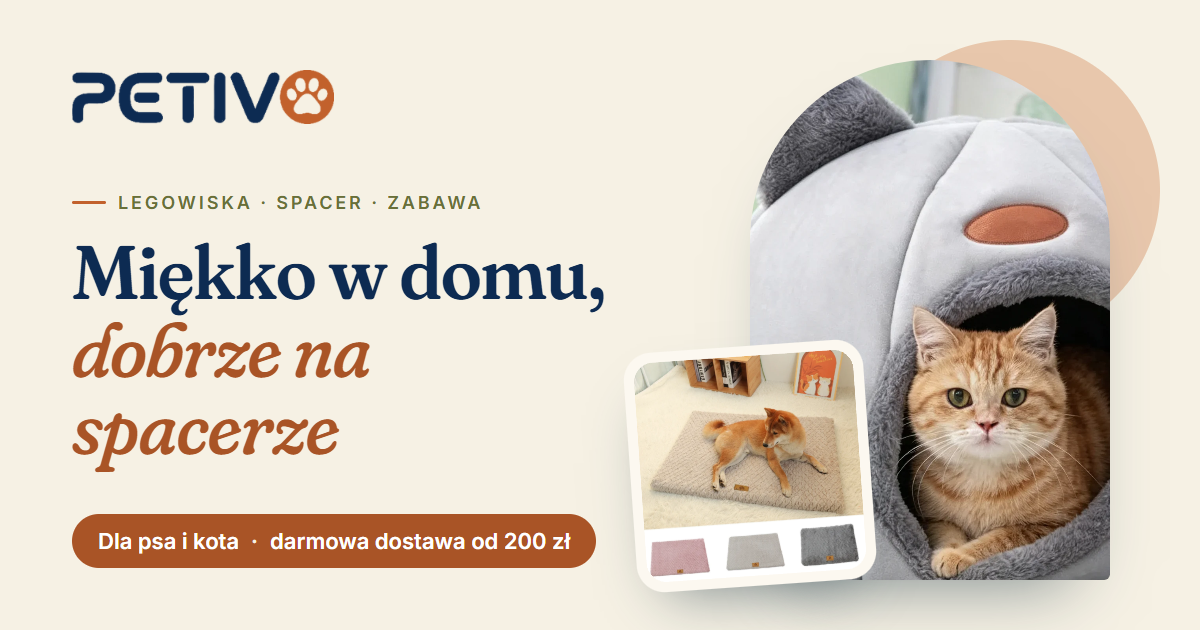
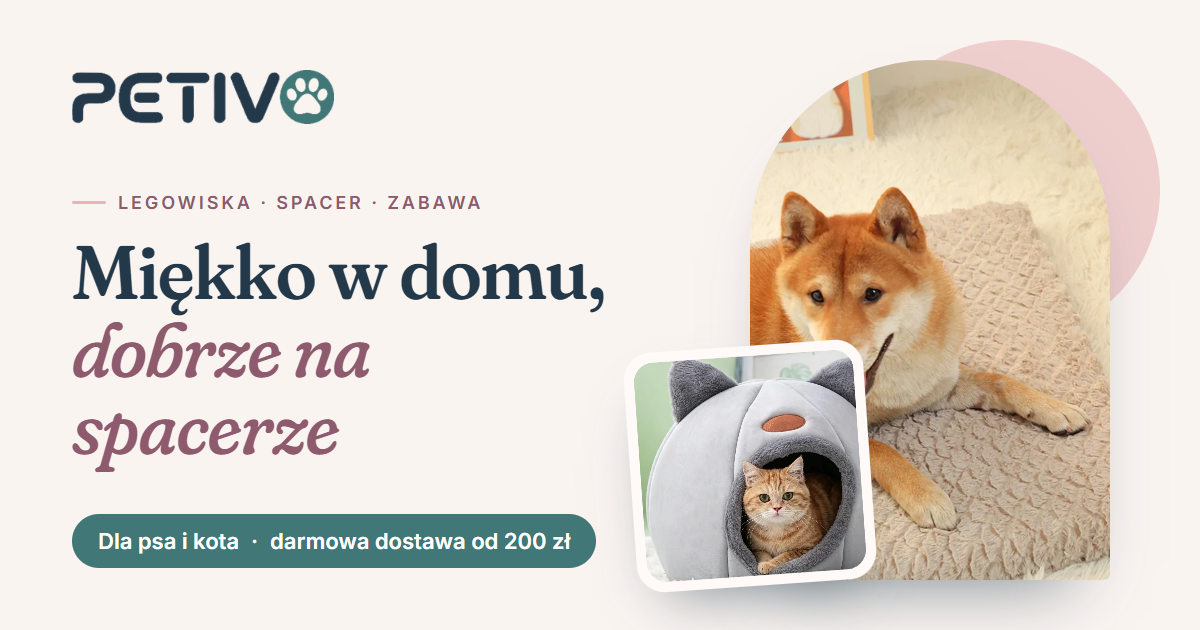
Palette D: powder pink and sea teal
Background #FAF4F1, ink #23394A, CTA sea teal #417777 (white text 5.1:1,
darker #3A6D6D for text and buttons), mauve #8E5A6E for accent words and
labels (5.0:1), powder pink #E8B4B8 for borders, tiles and decoration,
badge #6E3A50. Logo files renamed (-v2) so image caches pick up the new
colours; favicon and OG image redone.

diff --git a/src/components/landing.tsx b/src/components/landing.tsx
@@ -88,7 +88,7 @@ function plural(n: number, one: string, few: string, many: string) {
 function SceneTag({ product, label, className }: { product: Product; label: string; className: string }) {
   return (
     <Link href={`/produkt/${product.handle}`}
-      className={`group absolute z-20 inline-flex items-center gap-2.5 rounded-full bg-card/95 backdrop-blur border border-neutral-warm/70 pl-3.5 pr-1.5 py-1.5 shadow-[0_12px_30px_-16px_rgba(13,43,82,0.6)] hover:border-accent-primary transition-colors ${className}`}>
+      className={`group absolute z-20 inline-flex items-center gap-2.5 rounded-full bg-card/95 backdrop-blur border border-neutral-warm/70 pl-3.5 pr-1.5 py-1.5 shadow-[0_12px_30px_-16px_rgba(35,57,74,0.6)] hover:border-accent-primary transition-colors ${className}`}>
       <span className="leading-tight">
         <span className="block text-[0.7rem] font-semibold uppercase tracking-[0.12em] text-accent-secondary-strong">{label}</span>
         <span className="block text-sm font-semibold text-ink">od {formatPrice(product.minPrice)}</span>
@@ -176,9 +176,9 @@ export function Landing({ products }: { products: Product[] }) {
               className="relative mx-auto w-full max-w-[34rem] lg:max-w-none aspect-[1/1] sm:aspect-[10/9]">
               {/* backdrop arch, sun and a small sage moon */}
               <div aria-hidden="true" className="absolute inset-x-[3%] top-[2%] bottom-[9%] rounded-t-[999px] rounded-b-[2.5rem]"
-                style={{ background: "linear-gradient(180deg, #F8EBDD 0%, rgba(217,158,115,0.5) 100%)" }} />
-              <div aria-hidden="true" className="absolute right-[12%] top-[10%] w-[19%] aspect-square rounded-full bg-accent-primary/90" />
-              <div aria-hidden="true" className="absolute left-[20%] top-[14%] w-[6%] aspect-square rounded-full bg-accent-secondary/70" />
+                style={{ background: "linear-gradient(180deg, #FCF1F0 0%, rgba(232,180,184,0.55) 100%)" }} />
+              <div aria-hidden="true" className="absolute right-[12%] top-[10%] w-[19%] aspect-square rounded-full bg-neutral-warm" />
+              <div aria-hidden="true" className="absolute left-[20%] top-[14%] w-[6%] aspect-square rounded-full bg-accent-primary/70" />
               {/* contact shadows */}
               <div aria-hidden="true" className="absolute left-[9%] bottom-[11%] w-[42%] h-[6%] rounded-[50%] bg-ink/30 blur-xl" />
               <div aria-hidden="true" className="absolute right-[5%] bottom-[10%] w-[44%] h-[6%] rounded-[50%] bg-ink/25 blur-xl" />
@@ -186,12 +186,12 @@ export function Landing({ products }: { products: Product[] }) {
               <Link href={`/produkt/${scene.cat.handle}`} aria-label={scene.cat.name}
                 className="absolute left-[6%] bottom-[12%] w-[49%] aspect-[1.05] transition-transform duration-500 hover:-translate-y-1">
                 <Image src={scene.cat.packshot!} alt={scene.cat.name} fill priority sizes="(max-width: 1024px) 50vw, 28vw"
-                  className="object-contain object-bottom drop-shadow-[0_18px_22px_rgba(13,43,82,0.22)]" />
+                  className="object-contain object-bottom drop-shadow-[0_18px_22px_rgba(35,57,74,0.22)]" />
               </Link>
               <Link href={`/produkt/${scene.dog.handle}`} aria-label={scene.dog.name}
                 className="absolute right-[3%] bottom-[11%] z-10 w-[46%] aspect-[1.55] transition-transform duration-500 hover:-translate-y-1">
                 <Image src={scene.dog.packshot!} alt={scene.dog.name} fill priority sizes="(max-width: 1024px) 50vw, 26vw"
-                  className="object-contain object-bottom drop-shadow-[0_18px_22px_rgba(13,43,82,0.22)]" />
+                  className="object-contain object-bottom drop-shadow-[0_18px_22px_rgba(35,57,74,0.22)]" />
               </Link>
 
               <SceneTag product={scene.cat} label="Dla kota" className="left-[2%] bottom-0" />
@@ -233,12 +233,12 @@ export function Landing({ products }: { products: Product[] }) {
                     <span className="relative flex-1 mt-3">
                       {c.pieces[0] && (
                         <span className="absolute left-0 bottom-0 h-full w-[60%] transition-transform duration-500 group-hover:-translate-y-1.5 group-hover:-rotate-2">
-                          <Image src={c.pieces[0].packshot!} alt="" fill sizes="(max-width: 768px) 55vw, 20vw" className="object-contain object-bottom drop-shadow-[0_14px_16px_rgba(13,43,82,0.2)]" />
+                          <Image src={c.pieces[0].packshot!} alt="" fill sizes="(max-width: 768px) 55vw, 20vw" className="object-contain object-bottom drop-shadow-[0_14px_16px_rgba(35,57,74,0.2)]" />
                         </span>
                       )}
                       {c.pieces[1] && (
                         <span className="absolute right-0 bottom-0 h-[78%] w-[46%] transition-transform duration-500 delay-75 group-hover:-translate-y-1 group-hover:rotate-2">
-                          <Image src={c.pieces[1].packshot!} alt="" fill sizes="(max-width: 768px) 45vw, 15vw" className="object-contain object-bottom drop-shadow-[0_14px_16px_rgba(13,43,82,0.2)]" />
+                          <Image src={c.pieces[1].packshot!} alt="" fill sizes="(max-width: 768px) 45vw, 15vw" className="object-contain object-bottom drop-shadow-[0_14px_16px_rgba(35,57,74,0.2)]" />
                         </span>
                       )}
                     </span>
@@ -281,7 +281,7 @@ export function Landing({ products }: { products: Product[] }) {
             <ol className="grid gap-4 sm:gap-5 md:grid-cols-3">
               {beds.map((b, i) => (
                 <Reveal as="li" key={b.handle} delay={i * 0.06} className="h-full">
-                  <Link href={`/produkt/${b.handle}`} className="group flex h-full flex-col rounded-[2rem] bg-card border border-neutral-warm/60 p-3 hover:shadow-[0_28px_56px_-34px_rgba(13,43,82,0.55)] transition-shadow">
+                  <Link href={`/produkt/${b.handle}`} className="group flex h-full flex-col rounded-[2rem] bg-card border border-neutral-warm/60 p-3 hover:shadow-[0_28px_56px_-34px_rgba(35,57,74,0.55)] transition-shadow">
                     <ProductStage src={b.product!.packshot!} alt={b.product!.name} className="aspect-[4/3]" sizes="(max-width: 768px) 100vw, 33vw" padding="p-[10%]" />
                     <div className="flex flex-1 flex-col px-3 pb-3 pt-5">
                       <p className="text-xs font-semibold uppercase tracking-[0.14em] text-accent-primary-strong">{b.who}</p>

diff --git a/src/app/globals.css b/src/app/globals.css
@@ -6,8 +6,8 @@
 
 /*
  * Brand colours (Sanzo Wada based set):
- *   background #F6F1E4 · ink #0D2B52 · accent-primary (terracotta) #C2612C
- *   accent-secondary (sage) #7E8743 · neutral-warm #D99E73 · badges #730F1F / #D1BD19 / #417777
+ *   palette D "pudrowy i morski": background #FAF4F1 · ink #23394A · accent-primary (sea teal) #417777
+ *   accent-secondary (mauve) #8E5A6E · neutral-warm (powder pink) #E8B4B8 · badges #6E3A50 / #D1BD19 / #417777
  * The *-strong variants are the same hues darkened just enough for WCAG AA (4.5:1) wherever the
  * colour carries text: white text on terracotta buttons, terracotta/sage text on the cream background.
  */
@@ -53,25 +53,25 @@
 
 :root {
   /* brand colours */
-  --background: #F6F1E4;
-  --ink: #0D2B52;
-  --accent-primary: #C2612C;
-  --accent-secondary: #7E8743;
-  --neutral-warm: #D99E73;
-  --badge-deep: #730F1F;
+  --background: #FAF4F1;
+  --ink: #23394A;
+  --accent-primary: #417777;
+  --accent-secondary: #8E5A6E;
+  --neutral-warm: #E8B4B8;
+  --badge-deep: #6E3A50;
   --badge-mustard: #D1BD19;
   --badge-teal: #417777;
 
   /* AA-safe variants for text (see header comment) */
-  --accent-primary-strong: #A95426;   /* white text 5.3:1, on background 4.7:1 */
-  --accent-secondary-strong: #697038; /* on background 4.7:1 */
-  --ink-deep: #081E3A;
+  --accent-primary-strong: #3A6D6D;   /* white text 6.1:1, on background 5.6:1 */
+  --accent-secondary-strong: #8E5A6E; /* on background 5.0:1 */
+  --ink-deep: #172836;
 
   /* surfaces derived from the brand colours */
-  --card: #FCF8F0;
-  --sand: #F0DFCB;                    /* neutral-warm 22% over the background */
-  --line: rgba(217, 158, 115, 0.55);  /* neutral-warm borders */
-  --line-strong: rgba(13, 43, 82, 0.28);
+  --card: #FFFAF8;
+  --sand: #F5E4E4;                    /* powder pink ~25% over the background */
+  --line: rgba(232, 180, 184, 0.7);   /* powder-pink borders */
+  --line-strong: rgba(35, 57, 74, 0.28);
   --ease-out: cubic-bezier(0.22, 1, 0.36, 1);
 
   /* shadcn tokens */
@@ -82,7 +82,7 @@
   --secondary: var(--sand);
   --secondary-foreground: var(--ink);
   --muted: var(--sand);
-  --muted-foreground: #4a5a6e;
+  --muted-foreground: #4d5f6c;
   --accent: var(--neutral-warm);
   --accent-foreground: var(--ink);
   --destructive: #b42318;
@@ -115,7 +115,7 @@
   p { text-wrap: pretty; }
 
   ::selection {
-    background: rgba(217, 158, 115, 0.5);
+    background: rgba(232, 180, 184, 0.6);
     color: var(--ink);
   }
 
@@ -130,7 +130,7 @@
 
   * {
     scrollbar-width: thin;
-    scrollbar-color: rgba(194, 97, 44, 0.45) transparent;
+    scrollbar-color: rgba(65, 119, 119, 0.45) transparent;
   }
 }
 
@@ -141,7 +141,7 @@
     font-style: italic;
     font-weight: 500;
     font-variation-settings: "SOFT" 100;
-    color: var(--accent-primary-strong);
+    color: var(--accent-secondary-strong);
   }
   .on-ink .accent-script { color: var(--neutral-warm); }
 
@@ -209,13 +209,13 @@
     border-radius: 100px;
     border: 1px solid var(--accent-primary-strong);
     transition: transform 0.2s var(--ease-out), background-color 0.2s ease, border-color 0.2s ease, box-shadow 0.2s ease;
-    box-shadow: 0 10px 24px -14px rgba(169, 84, 38, 0.9);
+    box-shadow: 0 10px 24px -14px rgba(58, 109, 109, 0.85);
   }
   .btn-primary:hover {
-    background: #8E4520;
-    border-color: #8E4520;
+    background: #2F5A5A;
+    border-color: #2F5A5A;
     transform: translateY(-1px);
-    box-shadow: 0 14px 28px -14px rgba(142, 69, 32, 0.9);
+    box-shadow: 0 14px 28px -14px rgba(47, 90, 90, 0.85);
   }
   .btn-primary:active { transform: translateY(0); }
   .btn-primary:disabled { transform: none; box-shadow: none; background: var(--accent-primary-strong); }
@@ -229,7 +229,7 @@
     transition: background-color 0.2s ease, border-color 0.2s ease, color 0.2s ease;
   }
   .btn-ghost:hover {
-    background: rgba(126, 135, 67, 0.1);
+    background: rgba(142, 90, 110, 0.08);
     border-color: var(--accent-secondary-strong);
   }
 
@@ -261,7 +261,7 @@
 }
 
 /* product description from Shopify */
-.product-desc { color: rgba(27, 54, 68, 0.85); font-size: 0.95rem; line-height: 1.75; }
+.product-desc { color: rgba(35, 57, 74, 0.88); font-size: 0.95rem; line-height: 1.75; }
 .product-desc h2, .product-desc h3 { color: var(--ink); font-weight: 600; font-size: 1.3rem; margin: 1.75rem 0 0.75rem; }
 .product-desc p { margin: 0 0 1rem; }
 .product-desc strong { color: var(--ink); }
@@ -272,12 +272,12 @@
 .product-desc a { color: var(--accent-primary-strong); text-decoration: underline; text-underline-offset: 3px; }
 
 /* policy pages */
-.policy-body { color: rgba(27, 54, 68, 0.85); font-size: 0.95rem; line-height: 1.75; }
+.policy-body { color: rgba(35, 57, 74, 0.88); font-size: 0.95rem; line-height: 1.75; }
 .policy-body h2 { color: var(--ink); font-family: var(--font-fraunces), Georgia, serif; font-weight: 600; font-size: 2.1rem; line-height: 1.15; letter-spacing: -0.015em; margin: 0 0 0.75rem; }
 .policy-body h3 { color: var(--ink); font-weight: 600; font-size: 1.25rem; margin: 2rem 0 0.75rem; }
 .policy-body p { margin: 0 0 1rem; }
 .policy-body strong { color: var(--ink); }
-.policy-body em { color: rgba(27, 54, 68, 0.85); }
+.policy-body em { color: rgba(35, 57, 74, 0.88); }
 .policy-body ul, .policy-body ol { margin: 0 0 1rem; padding-left: 1.4rem; }
 .policy-body ul { list-style: disc; }
 .policy-body ol { list-style: decimal; }

diff --git a/src/components/product-stage.tsx b/src/components/product-stage.tsx
@@ -14,10 +14,10 @@ interface Props {
 export function ProductStage({ src, alt, sizes, priority, className = "", padding = "p-[12%]", radius = "rounded-[1.5rem]" }: Props) {
   return (
     <div className={`relative overflow-hidden ${radius} ${className}`}
-      style={{ background: "radial-gradient(120% 90% at 50% 18%, #FBF6EC 0%, var(--sand) 72%)" }}>
+      style={{ background: "radial-gradient(120% 90% at 50% 18%, #FFF9F7 0%, var(--sand) 72%)" }}>
       <div aria-hidden="true" className="absolute left-1/2 bottom-[10%] -translate-x-1/2 w-[62%] h-[7%] rounded-[50%] bg-ink/25 blur-xl pointer-events-none" />
       <Image src={src} alt={alt} fill sizes={sizes} priority={priority}
-        className={`object-contain ${padding} drop-shadow-[0_16px_18px_rgba(13,43,82,0.18)] transition-transform duration-500 ease-out group-hover:-translate-y-1.5 group-hover:scale-[1.03]`} />
+        className={`object-contain ${padding} drop-shadow-[0_16px_18px_rgba(35,57,74,0.18)] transition-transform duration-500 ease-out group-hover:-translate-y-1.5 group-hover:scale-[1.03]`} />
     </div>
   );
 }

diff --git a/src/components/product-card.tsx b/src/components/product-card.tsx
@@ -38,7 +38,7 @@ export function ProductCard({ product, featured = false }: { product: Product; f
   if (featured) {
     return (
       <Link href={`/produkt/${product.handle}`}
-        className="group relative grid lg:grid-cols-[1.15fr_1fr] h-full overflow-hidden rounded-[2rem] bg-card border border-neutral-warm/55 hover:shadow-[0_30px_60px_-36px_rgba(13,43,82,0.55)] transition-shadow duration-300">
+        className="group relative grid lg:grid-cols-[1.15fr_1fr] h-full overflow-hidden rounded-[2rem] bg-card border border-neutral-warm/55 hover:shadow-[0_30px_60px_-36px_rgba(35,57,74,0.55)] transition-shadow duration-300">
         <div className="relative p-2.5 lg:p-3">{visual}</div>
         <div className="flex flex-col justify-center px-6 pb-7 pt-4 lg:px-10 lg:py-10">
           <p className="inline-flex self-start rounded-full bg-badge-deep px-3 py-1 text-xs font-semibold uppercase tracking-[0.12em] text-white">Polecamy na start</p>

diff --git a/src/components/product-gallery.tsx b/src/components/product-gallery.tsx
@@ -11,7 +11,7 @@ export interface GallerySlide {
   height: number;
 }
 
-const STAGE = "radial-gradient(110% 85% at 50% 20%, #FBF6EC 0%, var(--sand) 70%)";
+const STAGE = "radial-gradient(110% 85% at 50% 20%, #FFF9F7 0%, var(--sand) 70%)";
 const SIZES = "(max-width: 1024px) 100vw, 55vw";
 
 function SlideView({ slide, alt, priority }: { slide: GallerySlide; alt: string; priority: boolean }) {
@@ -22,7 +22,7 @@ function SlideView({ slide, alt, priority }: { slide: GallerySlide; alt: string;
       <>
         <div aria-hidden="true" className="absolute left-1/2 bottom-[9%] -translate-x-1/2 w-3/5 h-[7%] rounded-[50%] bg-ink/20 blur-xl" />
         <Image src={slide.src} alt={alt} fill priority={priority} sizes={SIZES}
-          className="object-contain p-[11%] drop-shadow-[0_18px_24px_rgba(13,43,82,0.2)]" />
+          className="object-contain p-[11%] drop-shadow-[0_18px_24px_rgba(35,57,74,0.2)]" />
       </>
     );
   }

diff --git a/src/components/site-nav.tsx b/src/components/site-nav.tsx
@@ -33,7 +33,7 @@ export function SiteNav() {
       <nav aria-label="Główna nawigacja" className="fixed top-0 left-0 right-0 z-40 bg-background/85 backdrop-blur-xl backdrop-saturate-150 border-b border-neutral-warm/55">
         <div className="max-w-6xl mx-auto flex items-center justify-between gap-3 px-4 sm:px-6 h-16">
           <Link href="/" aria-label="Petivo — strona główna" className="inline-flex items-center shrink-0">
-            <Image src="/brand/petivo-logo-ink.png" alt="Petivo" width={1323} height={273} priority sizes="200px" className="h-7 sm:h-9 w-auto" />
+            <Image src="/brand/petivo-logo-ink-v2.png" alt="Petivo" width={1323} height={273} priority sizes="200px" className="h-7 sm:h-9 w-auto" />
           </Link>
           <div className="hidden md:flex items-center gap-7 text-sm font-medium text-ink/80">
             {links.map((l) => (

diff --git a/src/components/site-footer.tsx b/src/components/site-footer.tsx
@@ -7,7 +7,7 @@ export function SiteFooter() {
     <footer className="on-ink py-14 px-4 sm:px-6">
       <div className="max-w-6xl mx-auto grid gap-10 sm:grid-cols-2 lg:grid-cols-[1.2fr_1fr_1fr]">
         <div>
-          <Image src="/brand/petivo-logo-cream.png" alt="Petivo" width={1323} height={273} sizes="240px" className="h-10 w-auto" />
+          <Image src="/brand/petivo-logo-cream-v2.png" alt="Petivo" width={1323} height={273} sizes="240px" className="h-10 w-auto" />
           <p className="font-display text-lg text-background/90 mt-5 max-w-xs leading-snug">
             Legowiska, maty i akcesoria na spacer dla psa i kota.
           </p>

diff --git a/src/app/layout.tsx b/src/app/layout.tsx
@@ -19,7 +19,7 @@ const fraunces = Fraunces({
 });
 
 export const viewport: Viewport = {
-  themeColor: "#f7f2e2",
+  themeColor: "#FAF4F1",
 };
 
 export const metadata: Metadata = {
